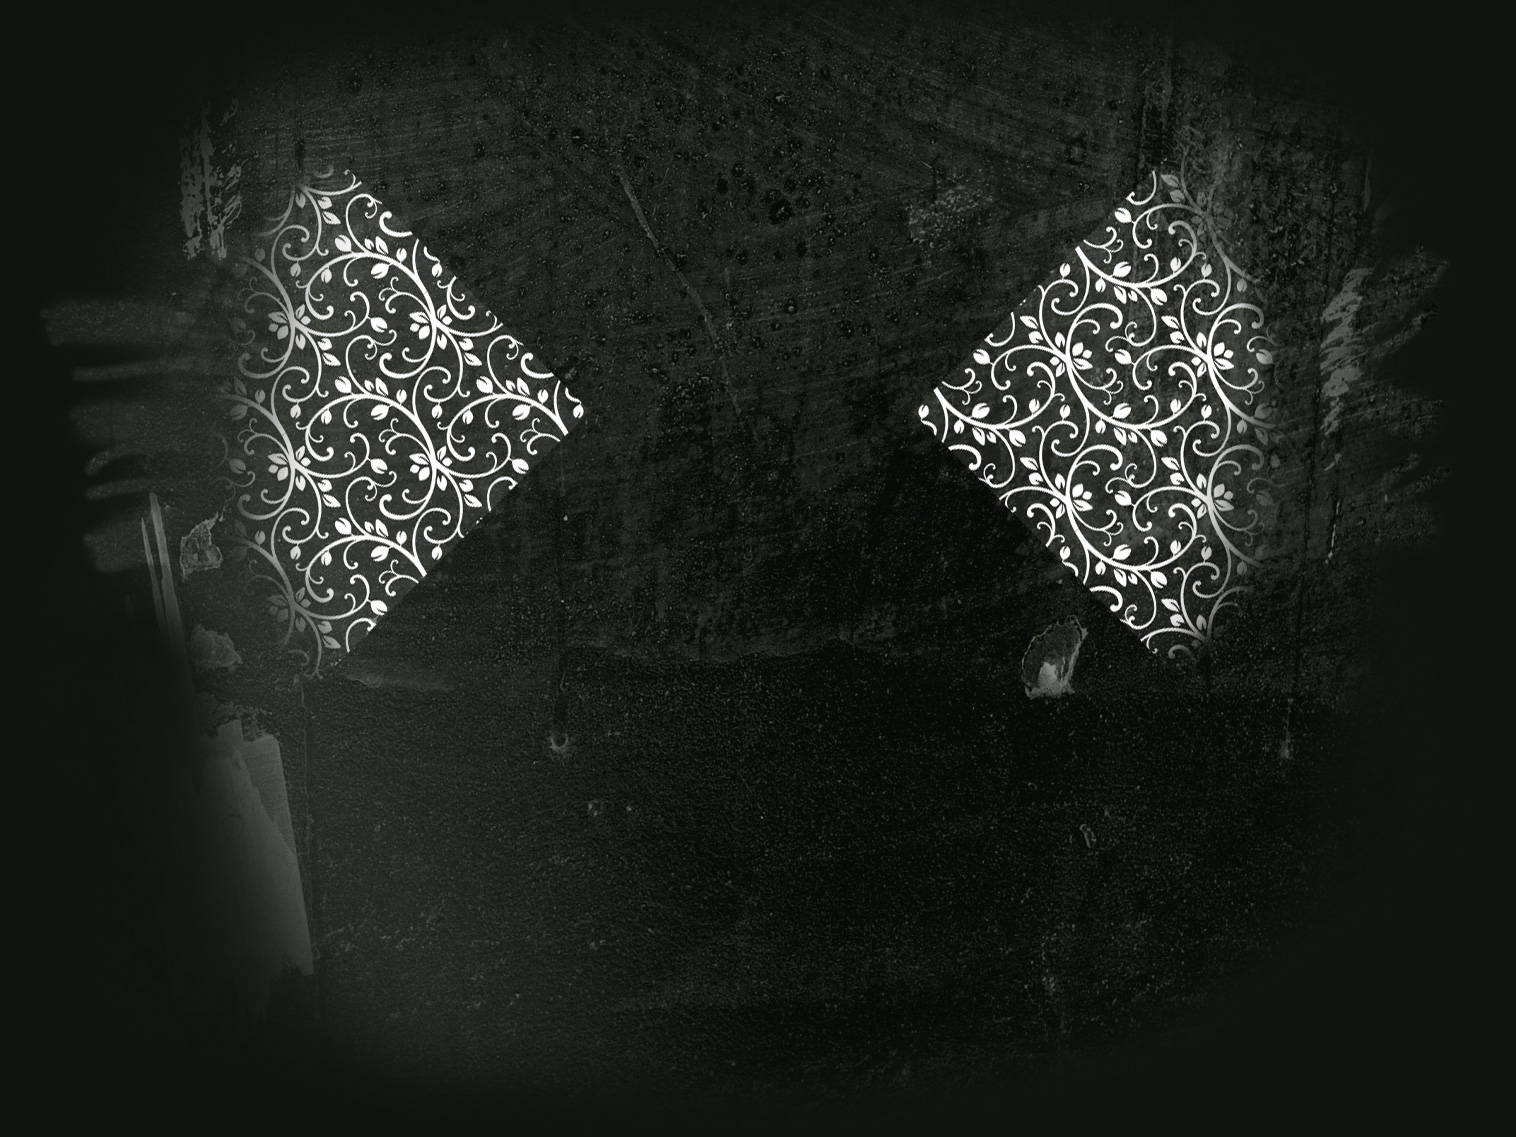
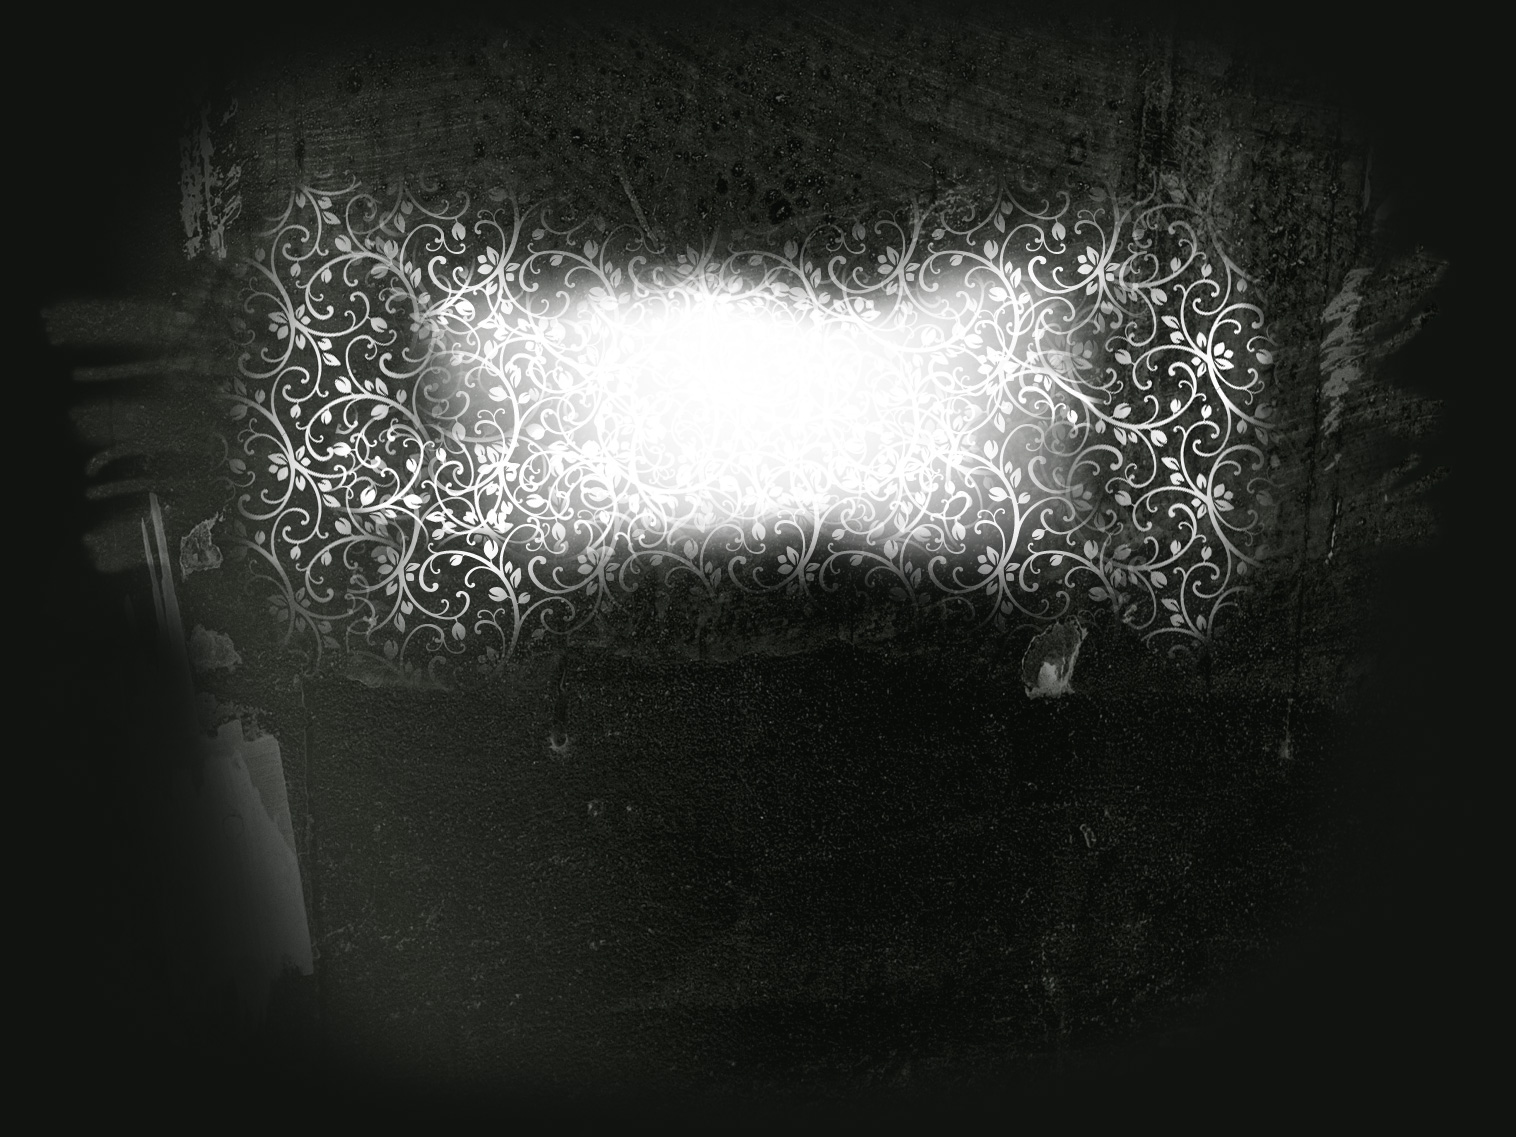
Finished the bio page.

Changed region(s): [[0.186, 0.1539, 0.8061, 0.5849]]

diff --git a/longdeadsignal/apps/core/templates/core/biography.html b/longdeadsignal/apps/core/templates/core/biography.html
@@ -6,19 +6,82 @@
     <div class="inner">
         <h2>Band Biography</h2>
     
-        <div id="">
+        <div id="biography" class="bio-band">
+            <div id="bio-text">
+                <div class="bio-band">
+                    "Long Dead Signal are considered one of the local bands 
+                    expected to step up another notch in 2011, and rightly so.
+                    Likening themselves to Buckley, Radiohead and Muse (and 
+                    these comparisons, it has to be said, are spot on), their
+                    self-titled EP roars through six tracks from intricate 
+                    guitars and distorted vocals at breakneck tempo, through
+                    to calmer melodies backed by inspired effects and riffs."
+                </div>
+                <div class="bio-ben">
+                    Ben does a lot of singing from the looks of it. In this 
+                    photo he seems to be looking into the camera as if to say
+                    "hello".
+                    
+                    When he was 5 years old he fell into toxic liquid
+                    which gave him his super singing powers.
+                    
+                    He is never seen without his trademark scarf!
+                </div>
+                <div class="bio-gary">
+                    Gary handles percussion, and is the first member in the
+                    line up to wear glasses.
+                    
+                    Head tilted to the side, Gary always looks a life from a
+                    different angle.
+                </div>
+                <div class="bio-jaime">
+                    Jaime handles the bass. When he's not laying down licks
+                    for Long Dead Signal, he (like Gary) enjoys wearing glasses.
+                    
+                    The only member to sport a tie and hat combo - which he has
+                    perfected over many years - Jaime leads the way with stylish
+                    poses, improving on Gary's already fantastic trademark
+                    side glance.
+                </div>
+                <div class="bio-jamie">
+                    Jamie uses his scarf wearing capabilities to team up with
+                    Ben on vocals, whilst churning out riffs on the guitar.
+                    
+                    Jamie's scarf however is so potently aggressive during
+                    performances, that a special belt has been fasted to his
+                    jacket to keep it out of the way, and under control.
+                </div>
+            </div>
+            <div id="bio-band">
+                Long Dead Signal
+            </div>
             <div id="bio-ben" class="person">
+                <span class="img"></span>
                 <span class="name">Ben</span>
             </div>
             <div id="bio-gary" class="person">
+                <span class="img"></span>
                 <span class="name">Gary</span>
             </div>
             <div id="bio-jaime" class="person">
+                <span class="img"></span>
                 <span class="name">Jaime</span>
             </div>
             <div id="bio-jamie" class="person">
+                <span class="img"></span>
                 <span class="name">Jamie</span>
             </div>
         </div>
     </div>
+{% endblock %}
+
+{% block scripts %}
+    {{ block.super }}
+    <script type="text/javascript" charset="utf-8">
+        $(function() {
+            $('#biography .person, #biography #bio-band').mouseover(function() {
+                $('#biography').removeAttr('class').addClass($(this).attr('id'));
+            });
+        });
+    </script>
 {% endblock %}

diff --git a/longdeadsignal/static/assets/css/style.css b/longdeadsignal/static/assets/css/style.css
@@ -1075,6 +1075,173 @@ button#refresh {
 }
 
 
+/* Biography -------------------------------------------------------------- */
+
+#biography {
+    margin-top: 10px;
+    height: 510px;
+    border: 1px solid #663;
+    
+    padding: 20px;
+    position: relative;
+    
+    background: url('/static/assets/img/background/corkboard.jpg');
+}
+
+#biography .person {
+    position: absolute;
+    top: 0;
+    left: 0;
+/*    border: 1px solid #000;*/
+    padding: 20px;
+    width: 110px;
+    height: 205px;
+    font-size: 20px;
+    
+    cursor: pointer;
+    
+    background-color: #fff;
+    box-shadow: 0 0 3px #000;
+    z-index: 400;
+}
+
+#biography .person .name {
+    position: absolute;
+    bottom: 0;
+    width: 100px;
+    text-align: center;
+    padding: 10px 0 10px 0;
+    
+    border: 1px solid transparent;
+    
+    color: #666;
+}
+
+#biography .person .img {
+    display: block;
+    position: absolute;
+    top: 5px;
+    right: 5px;
+    left: 5px;
+    bottom: 50px;
+    
+    opacity: 0.5;
+}
+
+#biography .person:hover .name {
+    color: #000;
+}
+
+#biography #bio-band {
+    padding: 20px;
+    font-family: georgia;
+    font-style: italic;
+    font-weight: bold;
+    font-size: 20px;
+    
+    position: absolute;
+    top: 460px;
+    left: 300px;
+    right: 300px;
+    
+    text-align: center;
+    color: #666;
+    background-color: #fff;
+    
+    cursor: pointer;
+    
+    -webkit-box-shadow: 0 0 2px #000;
+    
+    z-index: 500;
+}
+
+#biography .person#bio-ben {
+    top: 190px;
+    left: 60px;
+    -webkit-transform:rotate(2deg);
+}
+#biography .person#bio-ben .img {
+    background: url('/static/assets/img/bio/ben.jpg');
+}
+
+#biography .person#bio-gary {
+    top: 195px;
+    left: 255px;
+    -webkit-transform:rotate(1deg);
+}
+#biography .person#bio-gary .img {
+    background: url('/static/assets/img/bio/gary.jpg');
+}
+
+#biography .person#bio-jaime {
+    top: 185px;
+    left: 450px;
+    -webkit-transform:rotate(-4deg);
+}
+#biography .person#bio-jaime .img {
+    background: url('/static/assets/img/bio/jaime.jpg');
+}
+
+#biography .person#bio-jamie {
+    top: 200px;
+    left: 645px;
+    -webkit-transform:rotate(3deg);
+}
+#biography .person#bio-jamie .img {
+    background: url('/static/assets/img/bio/jamie.jpg');
+}
+
+#biography #bio-text {
+    background-color: #ffa;
+    background-image: -webkit-gradient(
+        linear,
+        left top,
+        left bottom,
+        color-stop(0.6, #ffa),
+        color-stop(1, #dd7)
+    );
+    height: 200px;
+    text-align: center;
+    
+    position: relative;
+}
+
+#biography #bio-text>* {
+    display: none;
+}
+
+#biography.bio-band #bio-band,
+#biography.bio-ben #bio-ben .name,
+#biography.bio-gary #bio-gary .name,
+#biography.bio-jaime #bio-jaime .name,
+#biography.bio-jamie #bio-jamie .name {
+    color: #000;
+}
+
+#biography.bio-band #bio-band .img,
+#biography.bio-ben #bio-ben .img,
+#biography.bio-gary #bio-gary .img,
+#biography.bio-jaime #bio-jaime .img,
+#biography.bio-jamie #bio-jamie .img {
+    opacity: 1;
+}
+
+#biography.bio-band #bio-text .bio-band,
+#biography.bio-ben #bio-text .bio-ben,
+#biography.bio-gary #bio-text .bio-gary,
+#biography.bio-jaime #bio-text .bio-jaime,
+#biography.bio-jamie #bio-text .bio-jamie {
+    display: block;
+    padding: 30px 40px 20px 40px;
+    font-size: 19px;
+    font-style: italic;
+    font-family: georgia;
+    color: #000;
+}
+
+/*#biography .person#bio*/
+
+
 
 
 

diff --git a/longdeadsignal/apps/core/templates/core/index.html b/longdeadsignal/apps/core/templates/core/index.html
@@ -9,7 +9,8 @@
 
 {% block header_extra %}
     <style type="text/css">
-        body,
+        #poster,
+        div.inner,
         #p-logo,
         #global-nav,
         #global-footer,
@@ -19,7 +20,8 @@
     </style>
     <noscript>
         <style type="text/css">
-            body,
+            #poster,
+            div.inner,
             #p-logo,
             #global-nav,
             #global-footer,
@@ -118,18 +120,17 @@
     <script type="text/javascript" charset="utf-8">
         $(function() {
             var siteDomain = '{{ SITE_DOMAIN }}',
-                $body = $('body'),
                 $poster = $('#poster'),
                 $logo = $('#p-logo'),
-                $restOfPage = $('#global-nav, #global-footer, #upcomming-events, #whats-new, #latest-tweet');
+                $restOfPage = $('#global-nav, #global-footer, #upcomming-events, #whats-new, #latest-tweet, div.inner');
                 
             if (siteDomain === '' || document.referrer.indexOf('http://' + siteDomain) !== 0) {
                 var handler = function(e) { return false };
                 $(window).bind('click', handler);
                 $('body').addClass('no-clicking');
             
-                $body.animate({'opacity': '1'}, 800, function() {
-                    $logo.animate({'opacity': '1'}, 800, function() {
+                $poster.delay(800).animate({'opacity': '1'}, 800, function() {
+                    $logo.delay(200).animate({'opacity': '1'}, 800, function() {
                         var delayed = function() {
                             $('body').removeClass('no-clicking');
                             $(window).unbind('click');
@@ -140,10 +141,20 @@
                     });
                 });
             } else {
-                $body.css('opacity', '1');
+                $poster.css('opacity', '1');
                 $logo.css('opacity', '1');
                 $restOfPage.css('opacity', '1');
             }
+            
+            $(window).bind('keyup', function(e) {
+                if (e.keyCode == 27) { // escape
+                    $poster.css('opacity', '1');
+                    $logo.css('opacity', '1');
+                    $restOfPage.css('opacity', '1');
+                    $('body').removeClass('no-clicking');
+                    $(window).unbind('click');
+                }
+            });
         });
     </script>
 {% endblock %}
